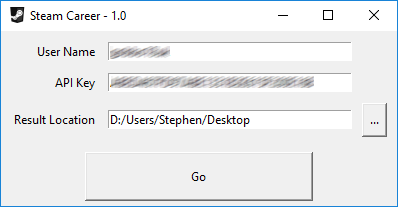
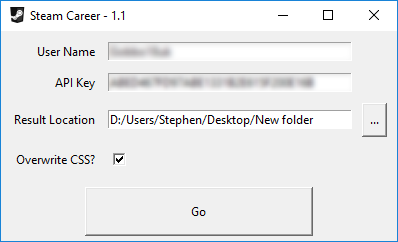
Docs update

diff --git a/README.md b/README.md
@@ -5,22 +5,24 @@ form.
 
 ## Instructions
 1. Log in to steam and generate an API key (see https://steamcommunity.com/dev/apikey).
-2. Install the tool (https://github.com/StephenChamberlain/steam-career/releases/download/v1.0/Steam_Career_1.0.exe)
+2. Install the tool (https://github.com/StephenChamberlain/steam-career/releases/download/v1.1/Steam_Career_1.1.exe)
 3. Provide the steam user ID of the player to generate results for, the API key you
-defined in step 1 and the output location for the results and click "Go".  
+defined in step 1 and the output location for the results and click "Go". You can
+also optionally choose to force overwrite the CSS in the resulting location (see 
+'Customisations').
 
 ![User interface](/docs/ui.png?raw=true)  
 
-4. The resulting HTML file will be generated and opened in your default browser.
+4. The resulting HTML site will be generated and opened in your default browser.
 
 ## Customisations
-The result location will contain two files; the resulting HTML itself and
-an external CSS style sheet. This stylesheet can be modified as you see fit, the
-tool will not overwrite this file if it already exists. Results are stored in an 
-HTML file with the name of the player, so you can modify the single stylesheet and
-affect the look and feel of all results.
+The result location will contain a directory with the steam user's name, itself 
+containing several files; the resulting HTML site and an external CSS style 
+sheet. This stylesheet can be modified as you see fit, the tool will not overwrite 
+this file if it already exists, unless 'Overwrite CSS' is selected. You can modify the
+stylesheet and affect the look and feel of all results.
 
-The HTML template itself can also be customised; it can be found in the installation
+The HTML templates themselves can also be customised; they can be found in the installation
 directory (e.g. C:\Program Files\Steam Career)\pkgs\steamcareer\templates directory.
 The template uses Jinja2 syntax; see smiley's https://github.com/smiley/steamapi 
 project for more information on the available functionality from the 'game' and
@@ -29,7 +31,9 @@ project for more information on the available functionality from the 'game' and
 ## Result
 If all goes well, the application will generate output in HTML form. 
 An example is given below.
-![Resulting HTML file](/docs/result.png?raw=true)
+![Resulting HTML file](/docs/result1.png?raw=true)
+![Resulting HTML file](/docs/result2.png?raw=true)
+![Resulting HTML file](/docs/result3.png?raw=true)
 
 ## Environment
 - Github.
